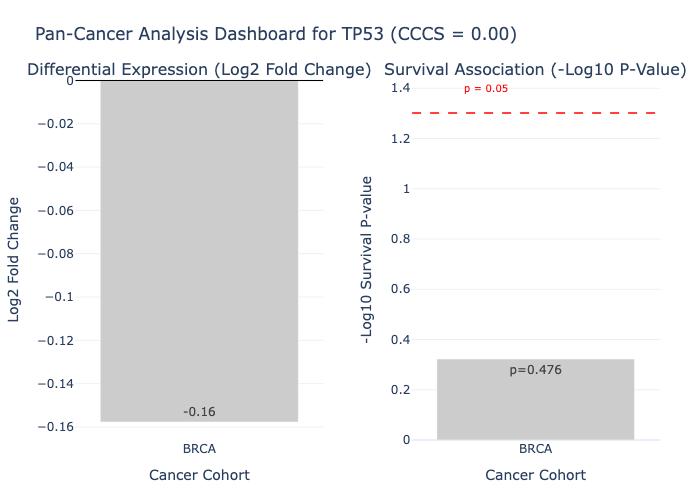
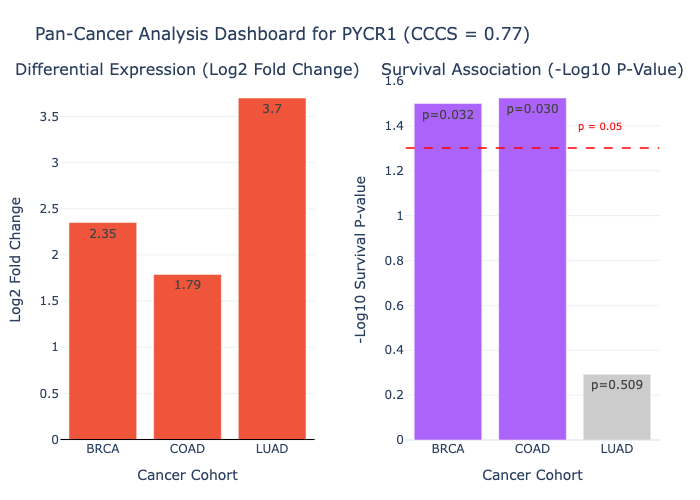
Update paper figures with PYCR1 plots and add paper orchestration script

diff --git a/scripts/run_pancancer_paper_pipeline.py b/scripts/run_pancancer_paper_pipeline.py
@@ -1,0 +1,94 @@
+#!/usr/bin/env python3
+"""
+Orchestration script to run a full multi-cohort (BRCA, LUAD, COAD) analysis
+and generate results for the oncofind research paper.
+"""
+
+import subprocess
+import sys
+import os
+import pandas as pd
+
+CANCERS = ["BRCA", "LUAD", "COAD"]
+N_SAMPLES = 50
+
+def run_command(cmd_list):
+    print(f"\nRunning: {' '.join(cmd_list)}")
+    result = subprocess.run(cmd_list, capture_output=True, text=True)
+    if result.returncode != 0:
+        print(f"Error executing command!")
+        print(f"Stdout:\n{result.stdout}")
+        print(f"Stderr:\n{result.stderr}")
+        return False
+    print("Success!")
+    return True
+
+def main():
+    print("======================================================================")
+    # 1. Download cohorts
+    for cancer in CANCERS:
+        print(f"\n--- Downloading data for {cancer} (N={N_SAMPLES}) ---")
+        success = run_command([
+            "oncofind", "download", 
+            "--cancer", cancer, 
+            "--n-samples", str(N_SAMPLES)
+        ])
+        if not success:
+            sys.exit(1)
+
+    # 2. Run covariate-adjusted DEG for each cohort
+    for cancer in CANCERS:
+        print(f"\n--- Running DEG analysis for {cancer} (adjusted for age) ---")
+        success = run_command([
+            "oncofind", "deg", 
+            "--cancer", cancer, 
+            "--mode", "tumor_vs_normal", 
+            "--method", "ttest",
+            "--covariates", "age_at_index"
+        ])
+        if not success:
+            sys.exit(1)
+
+    # 3. Compute the Cross-Cancer Consistency Score (CCCS) across all cohorts
+    print("\n--- Scoring genes using Cross-Cancer Consistency Score (CCCS) ---")
+    cancers_arg = " ".join(CANCERS)
+    success = run_command([
+        "oncofind", "score", 
+        "--cancers", cancers_arg, 
+        "--mode", "tumor_vs_normal",
+        "--top-n", "100"
+    ])
+    if not success:
+        sys.exit(1)
+
+    # 4. Validate findings against the COSMIC CGC Tier 1
+    print("\n--- Benchmarking rankings against COSMIC Cancer Gene Census ---")
+    if os.path.exists("cosmic_census.csv"):
+        success = run_command([
+            "oncofind", "validate",
+            "--cccs-csv", "oncofind_results/pancancer_cccs_rankings.csv",
+            "--cosmic-csv", "cosmic_census.csv"
+        ])
+    else:
+        # Fallback to local oncofind folder path
+        success = run_command([
+            "oncofind", "validate",
+            "--cccs-csv", "oncofind_results/pancancer_cccs_rankings.csv",
+            "--cosmic-csv", "oncofind/cosmic_census.csv"
+        ])
+    if not success:
+        sys.exit(1)
+
+    # 5. Display the top 10 biomarkers
+    print("\n======================================================================")
+    print("TOP 10 CROSS-CANCER BIOMARKERS IDENTIFIED FOR THE PAPER:")
+    rankings_path = "oncofind_results/pancancer_cccs_rankings.csv"
+    if os.path.exists(rankings_path):
+        df = pd.read_csv(rankings_path)
+        print(df.head(10)[["Gene", "CCCS", "Druggable", "Target Drugs"]].to_string(index=False))
+    else:
+        print("Rankings file not found!")
+    print("======================================================================")
+
+if __name__ == "__main__":
+    main()